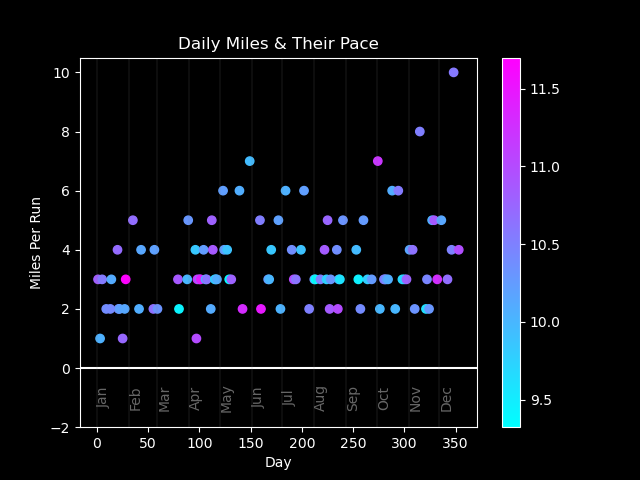
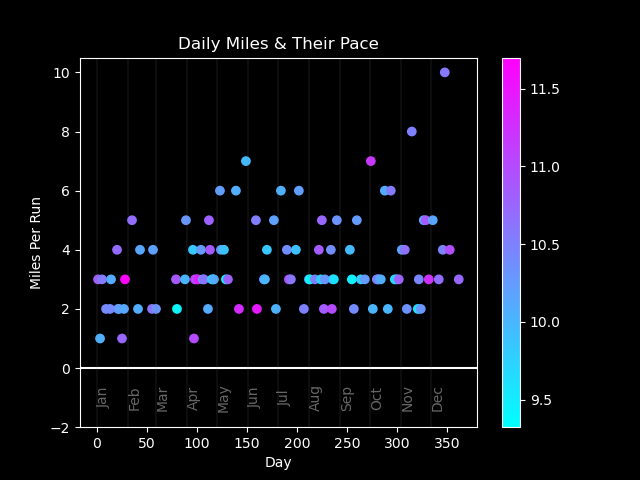
Update for 12/28/2023

diff --git a/progress.py b/progress.py
@@ -31,6 +31,7 @@ args = parser.parse_args()
 start_date = date(2022, 12, 31)
 todays_date = date.today()
 ndays = (todays_date - start_date).days
+ndays = min(ndays, 365)
 
 fname = 'progress.txt'
 
